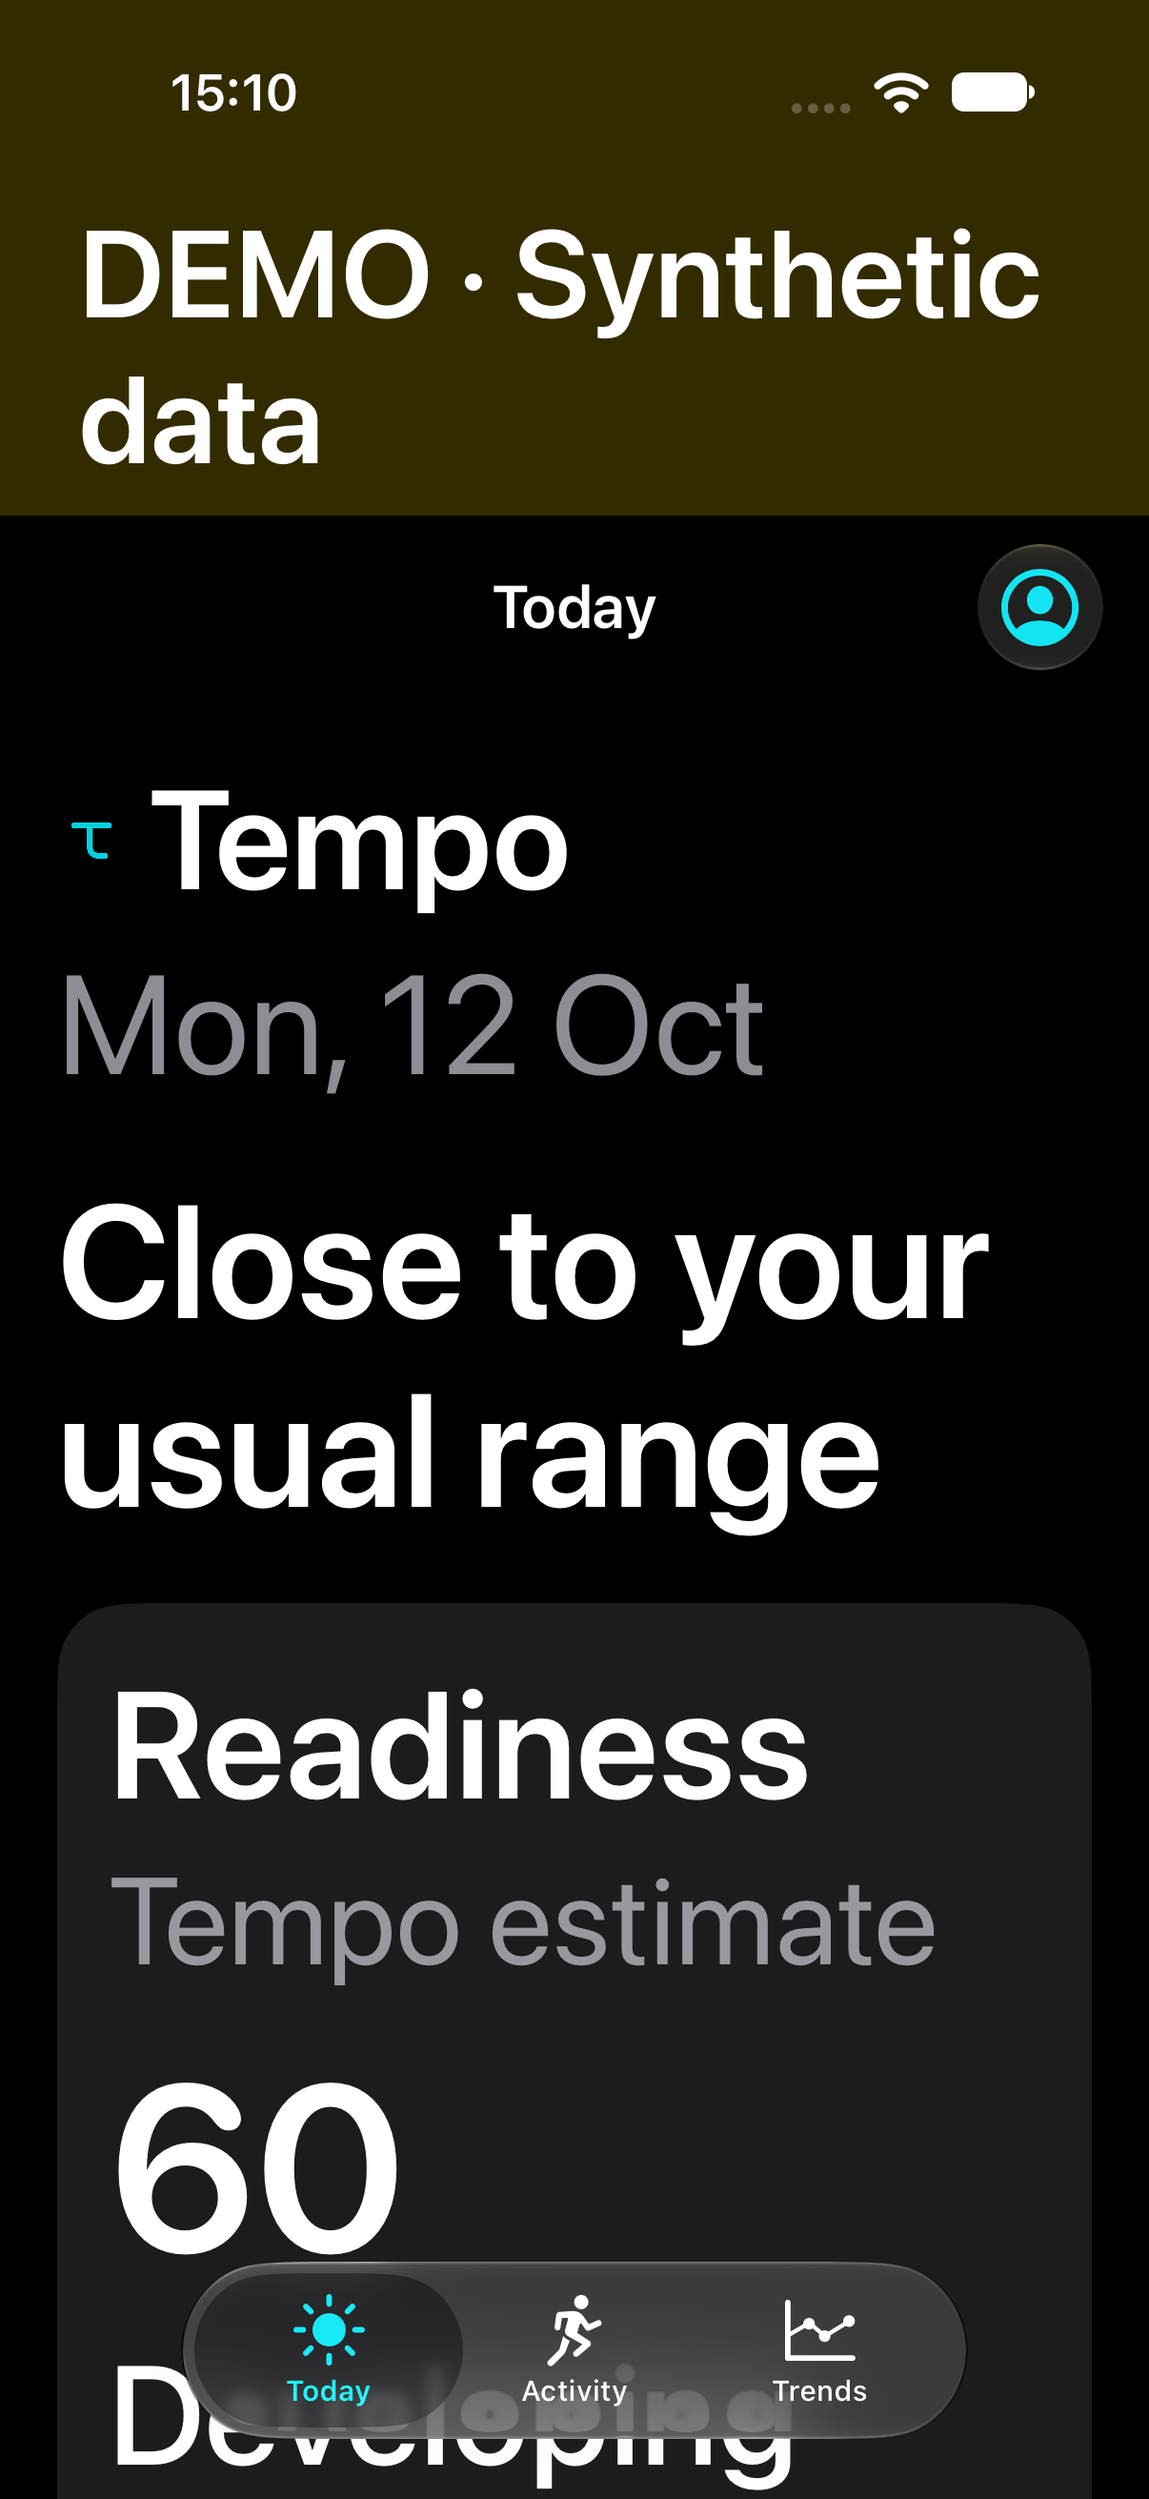
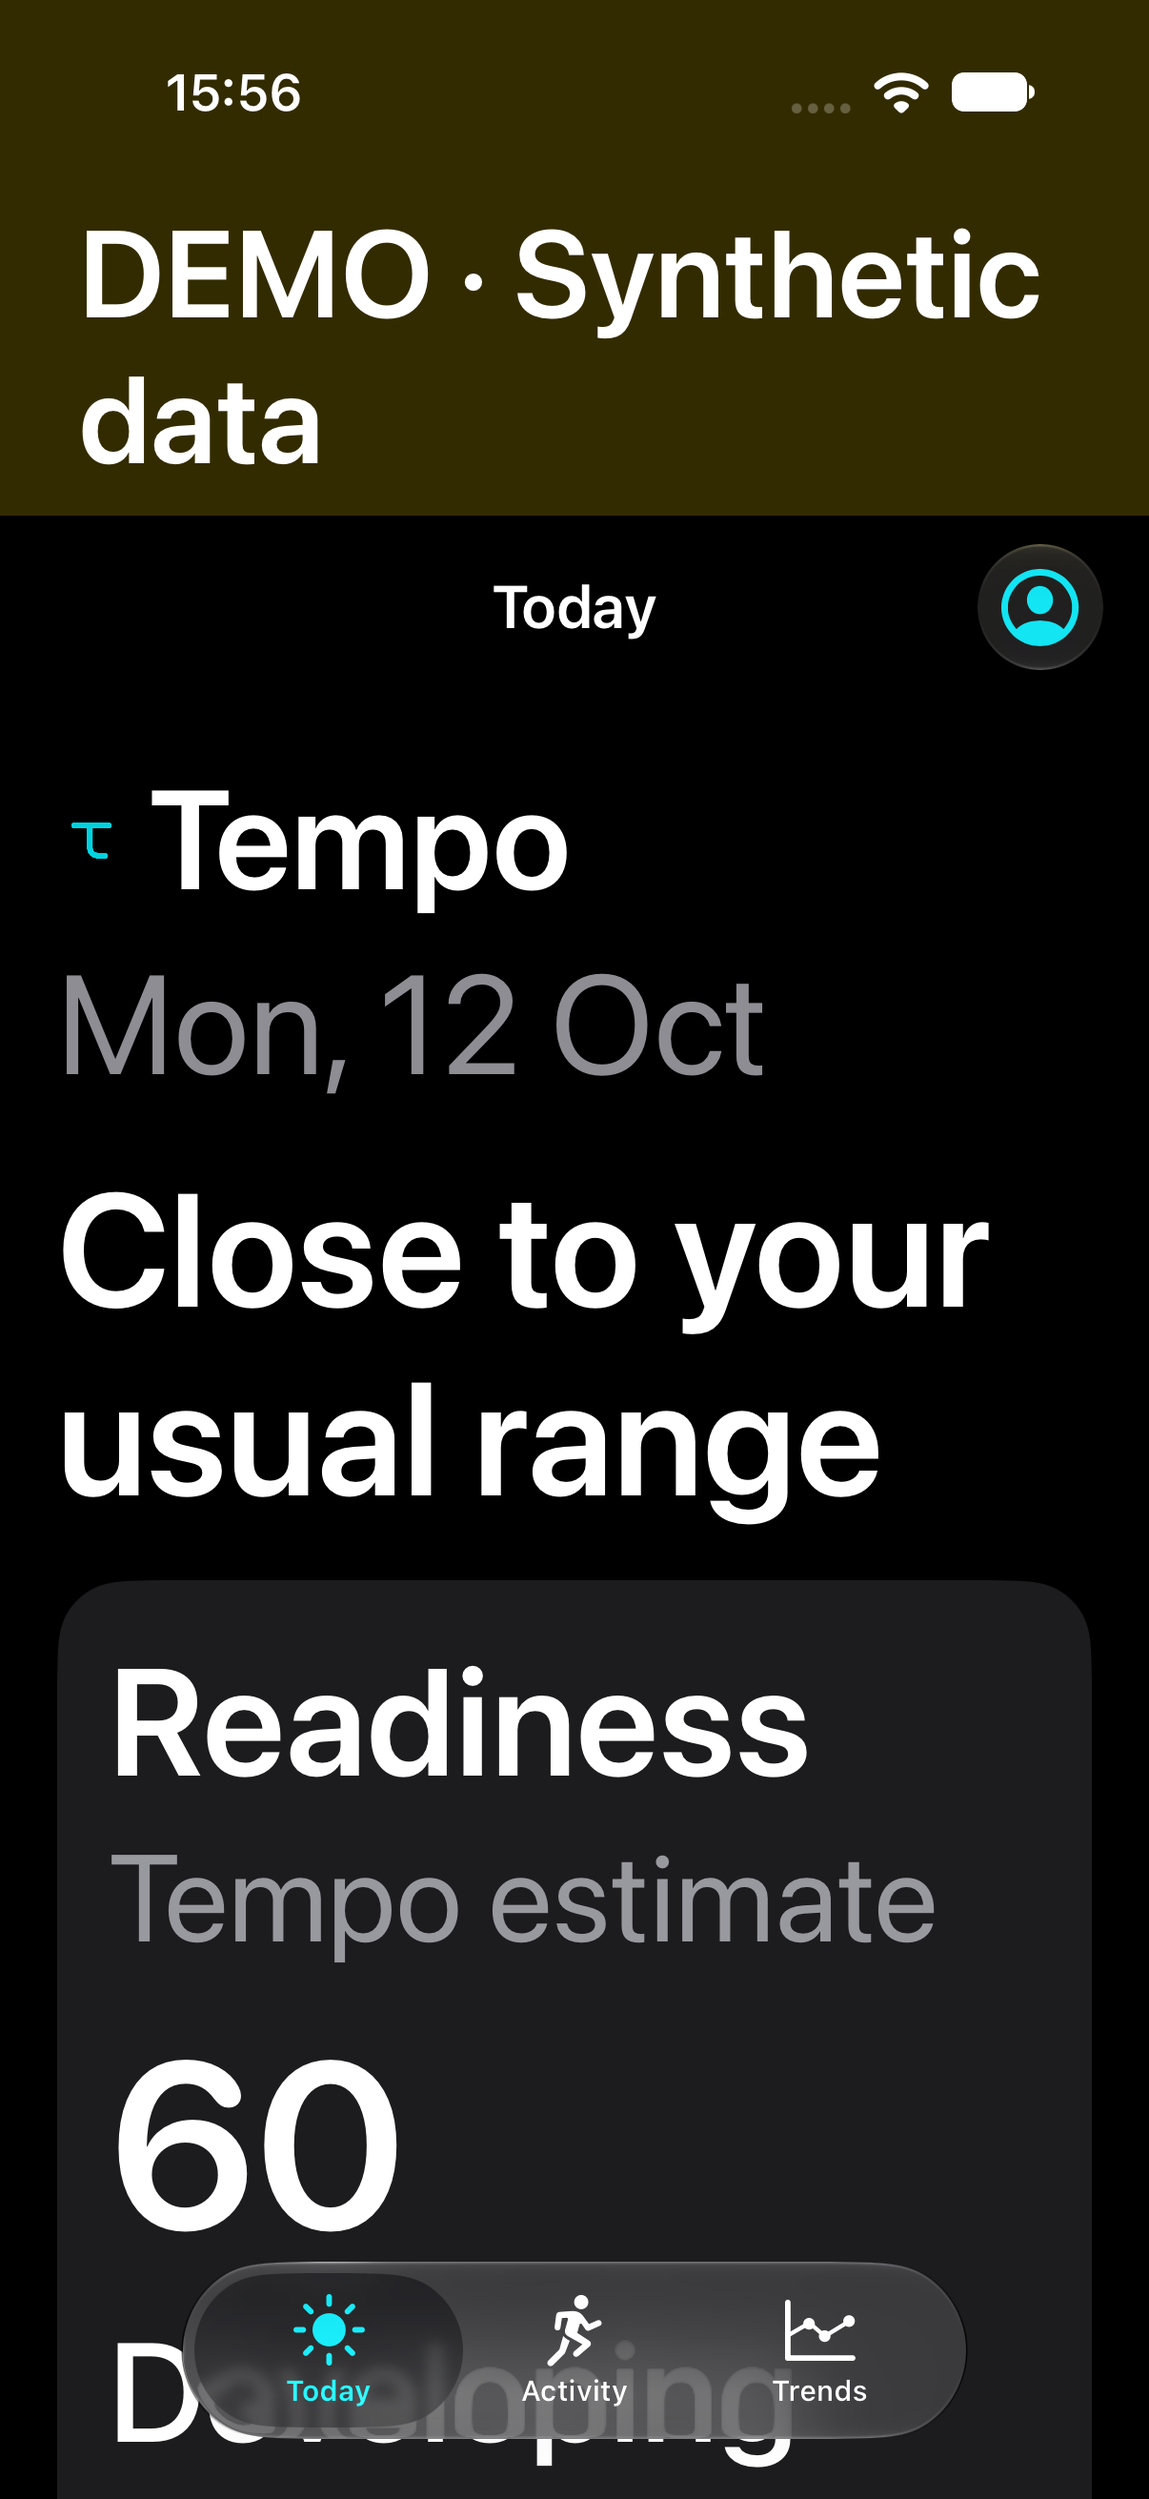
Refresh Today gallery and document rendering investigation

diff --git a/README.md b/README.md
@@ -22,7 +22,7 @@ Manufacturer names identify hardware compatibility only. Tempo is not an officia
 
 | Area | Current implementation | Verification boundary |
 |---|---|---|
-| Native interface | Five-minute live dashboard with freshness/coverage/source evidence, compact Today, evidence categories, band/placement sheet, cross-tab workout controls, finish summary, journal and sleep editors | Simulator interactions tested; full accessibility audit pending |
+| Native interface | Prominent Today live/collection panel with pull-to-refresh and manual Refresh, five-minute live dashboard with freshness/coverage/source evidence, compact sleep timing, evidence categories, band/placement sheet, cross-tab workout controls, finish summary, journal and sleep editors | Simulator interactions tested; full accessibility audit pending |
 | Bluetooth | Discovery, generation correction, disconnect/remove with history retained, foreground reconnection, standard Heart Rate Service notifications, Core Bluetooth restoration configuration | Neither physical band tested |
 | Protocol | Separate Whoop 4/5 framing, checksums, bounded fragment assembly, HR/RR parsing, firmware-gated Whoop 4 history decoder | Constructed fixtures; complete history transfer is disabled |
 | Wearing placement | Per-band wrist, upper-arm/bicep and underwear reports with effective times, corrections and session context | User-reported; no automatic location detection or unverified sensor correction |
@@ -39,9 +39,13 @@ Manufacturer names identify hardware compatibility only. Tempo is not an officia
 | Extensions | Summary widget and workout Live Activity, stale timestamps and widget privacy option | Targets compile; physical Lock Screen behavior pending |
 | Demo | Labelled synthetic data in a separate in-memory database, with real integrations disabled | UI tests and normal-store synthetic rejection tested |
 
+On Today, the live dashboard sits directly below readiness, with an accessible Refresh control and pull-to-refresh. Last reading and last successful iCloud sync remain separate; refresh does not imply historical backfill. Sleep timing is a compact tappable summary; its detail supports correction and adding another session.
+
 Connection and wearing are separate: nearby advertisements are not connected bands, contact reports are not inferred from proximity, and automatic mode retains a usable selected source even if both bands are worn. See [band controls, live dashboard and automatic refresh](docs/BandManagement.md) for thresholds and physical retest steps.
 
 The app does not fabricate unsupported sensor values. Battery, calibrated temperature, respiration, SpO₂, proprietary wear detection, band haptics and firmware alarms remain unavailable or hidden until supported implementation and physical validation exist.
+
+Rendering diagnostics such as the reported QuartzCore handler message are documented in [RenderingDiagnostics.md](docs/RenderingDiagnostics.md), including a reproduction independent of Tempo’s Bluetooth and cloud code.
 
 ## Requirements
 
@@ -122,7 +126,7 @@ These are real screenshots captured from Tempo running in the iOS simulator, wit
 
 [<img src="docs/screenshots/live-dashboard-demo.png" width="240" alt="Live dashboard with clearly labelled synthetic heart rate and coverage">](docs/screenshots/live-dashboard-demo.png)
 
-All ten captures come from the current simulator test runs. The maximum-text view scrolls naturally; essential controls remain reachable. Capture provenance and checksums are in [the screenshot manifest](docs/screenshots/capture-manifest.json).
+All ten captures come from the current simulator test runs. Today places live collection immediately below readiness. Pull down or tap the circular Refresh control to check collection and request enabled cloud sync; feedback distinguishes real success, local-only operation and retries. The maximum-text view scrolls naturally; essential controls remain reachable. Capture provenance and checksums are in [the screenshot manifest](docs/screenshots/capture-manifest.json).
 
 ## Logo and Xcode assets
 
@@ -209,7 +213,7 @@ xcodebuild -project Tempo.xcodeproj -scheme Tempo -sdk iphoneos -destination 'ge
 
 Replace the simulator name with one installed locally. The explicit arm64 UI command is for Apple Silicon. If build caches report stale local-package modules, use a fresh derived-data directory. Do not interpret an unsigned build as a successful signed deployment.
 
-Recorded verification: **72 core tests passed. The updated simulator suite passes all 9 tests, including ten real screen captures, cross-tab workout controls, completion summaries, stale-sleep handling and maximum-text dark mode; simulator and unsigned iPhone builds pass.** Tests cover parser corruption/truncation/fragmentation, unsupported firmware, duplicate history, atomic checkpoints, overlap selection, source hysteresis, workout persistence, DST duration, RR quality, insufficient baselines, sensor-change confidence, revisions/conflicts/deletions, backup checksums/replay, outbox races/backoff, restored Health provenance, synthetic rejection, bounded reads and gap-aware charts.
+Recorded verification: **73 core tests passed. The updated simulator suite passes all 11 tests, including ten real screen captures, cross-tab workout controls, completion summaries, stale-sleep handling and maximum-text dark mode; simulator and unsigned iPhone builds pass.** Tests cover parser corruption/truncation/fragmentation, unsupported firmware, duplicate history, atomic checkpoints, overlap selection, source hysteresis, workout persistence, DST duration, RR quality, insufficient baselines, sensor-change confidence, revisions/conflicts/deletions, backup checksums/replay, outbox races/backoff, restored Health provenance, synthetic rejection, bounded reads and gap-aware charts.
 
 The UI suite exercises missing-data tabs, workout actions and the labelled demo/navigation layout. It does not establish VoiceOver quality, physical radio operation, real CloudKit synchronization or HealthKit behavior. See the [verification ledger](docs/Verification.md).
 

diff --git a/docs/Verification.md b/docs/Verification.md
@@ -4,20 +4,21 @@ Current evidence only. Completed IDs live in Completed.md; older investigations 
 
 | Check | Result |
 |---|---|
-| Swift core suite | 72 tests passed,0 failures |
-| iPhone simulator suite | 9 tests passed,0 failures; final contact-status change additionally passes focused dashboard/removal rerun |
+| Swift core suite | 73 tests passed,0 failures |
+| iPhone simulator suite | 11 tests passed,0 failures |
 | Native executable | Tempo workspace/scheme builds Tempo.app/Tempo, app/widget/UI runner; minimum iOS26 |
-| Unsigned generic iPhoneOS build | BUILD SUCCEEDED after final contact-status change |
+| Unsigned generic iPhoneOS build | BUILD SUCCEEDED after final product changes |
 | Captures | ten actual, unmodified successful-test XCTest attachments; source/timestamp/dimensions/SHA-256 manifest |
-| Band policy | pending/connected connection idempotence, explicit pause across ledger restoration, interrupted link intent, late callbacks, generation evidence, history-preserving registry deletion/restoration |
-| Wearing/selection | both usable worn sources retain current automatic selection; fresh connected measured contact reports required; off-body physiology excluded while contact remains visible |
-| Workout integrity | manual disconnect closes source, same-band reconnect starts another segment, finishing never extends an already-closed source gap |
-| Sync | five-minute freshness/pending-change policy,60-second automatic cooldown, failed-pass backoff, dataset identity guards after awaits; actual CloudKit behavior needs signed validation |
-| UI | live dashboard/demo honesty, removal confirmation, Today/tabs, cross-tab workout controls, stale sleep, placement changes, maximum text/dark mode |
-| Review | remapping/sync dataset races and finish-gap findings fixed; final contact evidence review has no important unresolved finding |
+| Today | live action below readiness, accessible manual Refresh, pull-to-refresh and honest demo result; sleep/movement remain visible |
+| Sleep continuity | adding another session after existing history works; correction retains original identity |
+| Accessibility simulation | maximum accessibility Dynamic Type/dark mode, status/navigation actions reachable |
+| Integrity policies | existing connection, wear/overlap/source-gap, baseline/date, revisions/sync/backup and synthetic-isolation tests remain green |
+| Refresh results | an old cloud success never becomes a new successful-sync claim; demo/local-only/error outcomes remain distinct |
+| Rendering diagnostic | exact QuartzCore handler message reproduced in independent NavigationStack/text app without Tempo/BLE/cloud; no speculative workaround applied |
+| Read-only review | repeat-sleep entry regression corrected; final review has no important unresolved product-change finding |
 
-Red/green checks covered absent connection/freshness APIs, disconnected source gaps and off-body contact evidence. Simulator runs caught offscreen controls and duplicate accessibility representations of a native confirmation button; removal is moved ahead of the capability list and the test targets the explicit confirmation action.
+Red/green evidence covered the live action's old placement and absent manual refresh, old-success projection, and missing repeat-sleep action. An inherited identifier on the new collection container masked the existing band-status control; removing it restored native accessibility queries and maximum-text tests. Both manual button and pull gesture are tested from clean initial states.
 
-Reproduce with README/Setup commands. Local session artifacts: `/private/tmp/tempo-band-final-core.log`, `/private/tmp/tempo-band-delivery-ui.log`, `/private/tmp/tempo-band-delivery-ui.xcresult`, `/private/tmp/tempo-band-contact-ui.log`, `/private/tmp/tempo-band-contact-ui.xcresult`, `/private/tmp/tempo-band-device.log`. Captures come from the full simulator run and final focused live-dashboard run. See the manifest for each source test.
+Reproduce with README/Setup commands. Local artifacts: `/private/tmp/tempo-today-core-final.log`, `/private/tmp/tempo-today-delivery-ui.log`, `/private/tmp/tempo-today-delivery-ui.xcresult`, `/private/tmp/tempo-today-device.log`. Probe/runtime details are in [RenderingDiagnostics.md](RenderingDiagnostics.md). Capture provenance is in the screenshot manifest.
 
-Physical bands tested:0. Signed CloudKit/HealthKit phone sessions:0. iOS26 runtime, VoiceOver, actual background reliability, wear/contact accuracy at all placements and cross-phone restore remain unverified. A passing unsigned build neither provisions an iPhone nor establishes daily-use readiness. Complete proprietary historical retrieval is still unavailable.
+Physical bands tested:0. Signed CloudKit/HealthKit phone sessions:0. iOS26 runtime, physical VoiceOver/background reliability, wear/contact accuracy and cross-phone restore remain unverified. The user's physical rendering diagnostic requires OS/behavior confirmation (D01). A passing unsigned build does not provision a phone or establish daily-use readiness. Complete proprietary historical retrieval remains unavailable.

diff --git a/docs/KnownLimitations.md b/docs/KnownLimitations.md
@@ -53,4 +53,4 @@ Wrist, upper-arm and underwear reports are implemented per band with effective t
 
 ## UI refinement verification boundary
 
-Compact Today/evidence categories, band/placement sheet, native cross-tab workout controls, finish summaries and daily trend aggregation are implemented. Live dashboard, disconnect/removal with retained history, generation correction and separate sync/reading timestamps are implemented. Foreground activation checks connection intent and cloud freshness (five minutes or pending changes), with a60-second automatic attempt cooldown. Maximum Dynamic Type/dark-mode simulator checks and ten actual screenshots accompany this pass. Signed installation, physical VoiceOver/contrast/transparency/battery behavior and iOS26 runtime checks remain open in the improvement tracker. A native app target/workspace is included; the root Swift package is a non-executable library.
+Compact Today/evidence categories, band/placement sheet, native cross-tab workout controls, finish summaries and daily trend aggregation are implemented. Live dashboard prominently below readiness, manual/pull refresh with truthful outcomes, compact sleep timing plus repeat-session entry, disconnect/removal with retained history, generation correction and separate sync/reading timestamps are implemented. Foreground activation checks connection intent and cloud freshness (five minutes or pending changes), with a60-second automatic attempt cooldown. Maximum Dynamic Type/dark-mode simulator checks and ten actual screenshots accompany this pass. Signed installation, physical VoiceOver/contrast/transparency/battery behavior and iOS26 runtime checks remain open in the improvement tracker. A native app target/workspace is included; the root Swift package is a non-executable library.

diff --git a/docs/screenshots/README.md b/docs/screenshots/README.md
@@ -4,6 +4,8 @@ These PNGs are actual screen captures from the running Tempo iOS app on the iPho
 
 Captured through `TempoUITests.testCaptureProductScreenshots` with `--ui-testing --demo`. The test waits for the isolated demo dataset to finish loading, navigates the native screens and attaches each screenshot to its Xcode result bundle. Files are copied directly from those attachments without cropping, overlays or other postprocessing. `capture-manifest.json` records the source test, capture timestamps, dimensions and SHA-256 checksums.
 
+Today now includes the live/collection panel directly below readiness and a circular manual Refresh control; pull-to-refresh invokes the same action.
+
 Screens: Today, activity selection, active workout, completed workout summary, trends, readiness explanation, settings, experimental activity review, and maximum Dynamic Type in dark mode. The activity review comes from `testDetectedActivityRequiresConfirmationAndDoesNotRepeat` with `--activity-detection-demo`. The dark/maximum-text capture comes from `testLargeTextDarkModeKeepsPrimaryActionsAccessible` with `--large-text --dark`. The live dashboard comes from `testLiveDashboardAndBandManagementKeepDemoHonest` with `--live-dashboard-demo`; it never fakes a Bluetooth connection. All ten use isolated synthetic data.
 
 To reproduce, run the Tempo scheme's UI tests with an installed iPhone simulator. Export attachments from the resulting `.xcresult` bundle:

diff --git a/docs/Improvements.md b/docs/Improvements.md
@@ -6,9 +6,10 @@ Single working backlog. Update when scope changes or evidence closes an item. Pr
 
 | ID | Priority/status | Open outcome / evidence |
 |---|---|---|
+| D01 | P1 awaiting hardware | Exact QuartzCore message reproduced in independent minimal NavigationStack app without BLE/cloud; [evidence](RenderingDiagnostics.md). Confirm physical OS/action and any freeze/flicker/crash before an app workaround. No log suppression or fixed claim. |
 | UX09 | P2 open | Session-detail progressive disclosure: make notes/exertion easier to reach and reduce repeated unavailable fields in empty workout summaries. Keep coverage/source evidence inspectable. |
 
-The approved UX01–UX08 pass is closed in [Completed.md](Completed.md). Physical audit V05 stays open.
+UX01–UX08 and UX10 are closed in [Completed.md](Completed.md). Physical audit V05 stays open.
 
 Band feedback B01–B06 is implemented and software-verified in [Completed.md](Completed.md). The [connection/live/refresh contract](BandManagement.md) includes physical retest steps; C01/C03/C04/S01 remain open.
 

diff --git a/docs/Completed.md b/docs/Completed.md
@@ -12,3 +12,5 @@ Compact index only: ID · outcome · commit · verification. Remove closed ticke
 - DATA01 · HR-only current-band filtering, dated readiness, historical chart invalidation and missing-zone states · e2977ec · core/UI regressions and read-only review.
 
 - B01–B06 · idempotent connection/discovery, generation correction, persisted disconnect intent, removal/restoration with retained history, honest live HR/coverage/contact/source dashboard, separate sync timestamps and foreground freshness policy · e428748 · 72 core /9 simulator tests plus final focused dashboard rerun, unsigned iPhone build, ten real captures, read-only reviews; physical C01/C03/C04/S01 remain open.
+
+- UX10 · prominent Today live/collection panel, shared pull/manual refresh with honest local/cloud outcome and timestamps, compact sleep timing with retained correction and repeat-session entry · b5caf7b · 73 core /11 simulator tests, unsigned iPhone build, ten fresh real captures and read-only review; D01 rendering/physical investigation remains open.
